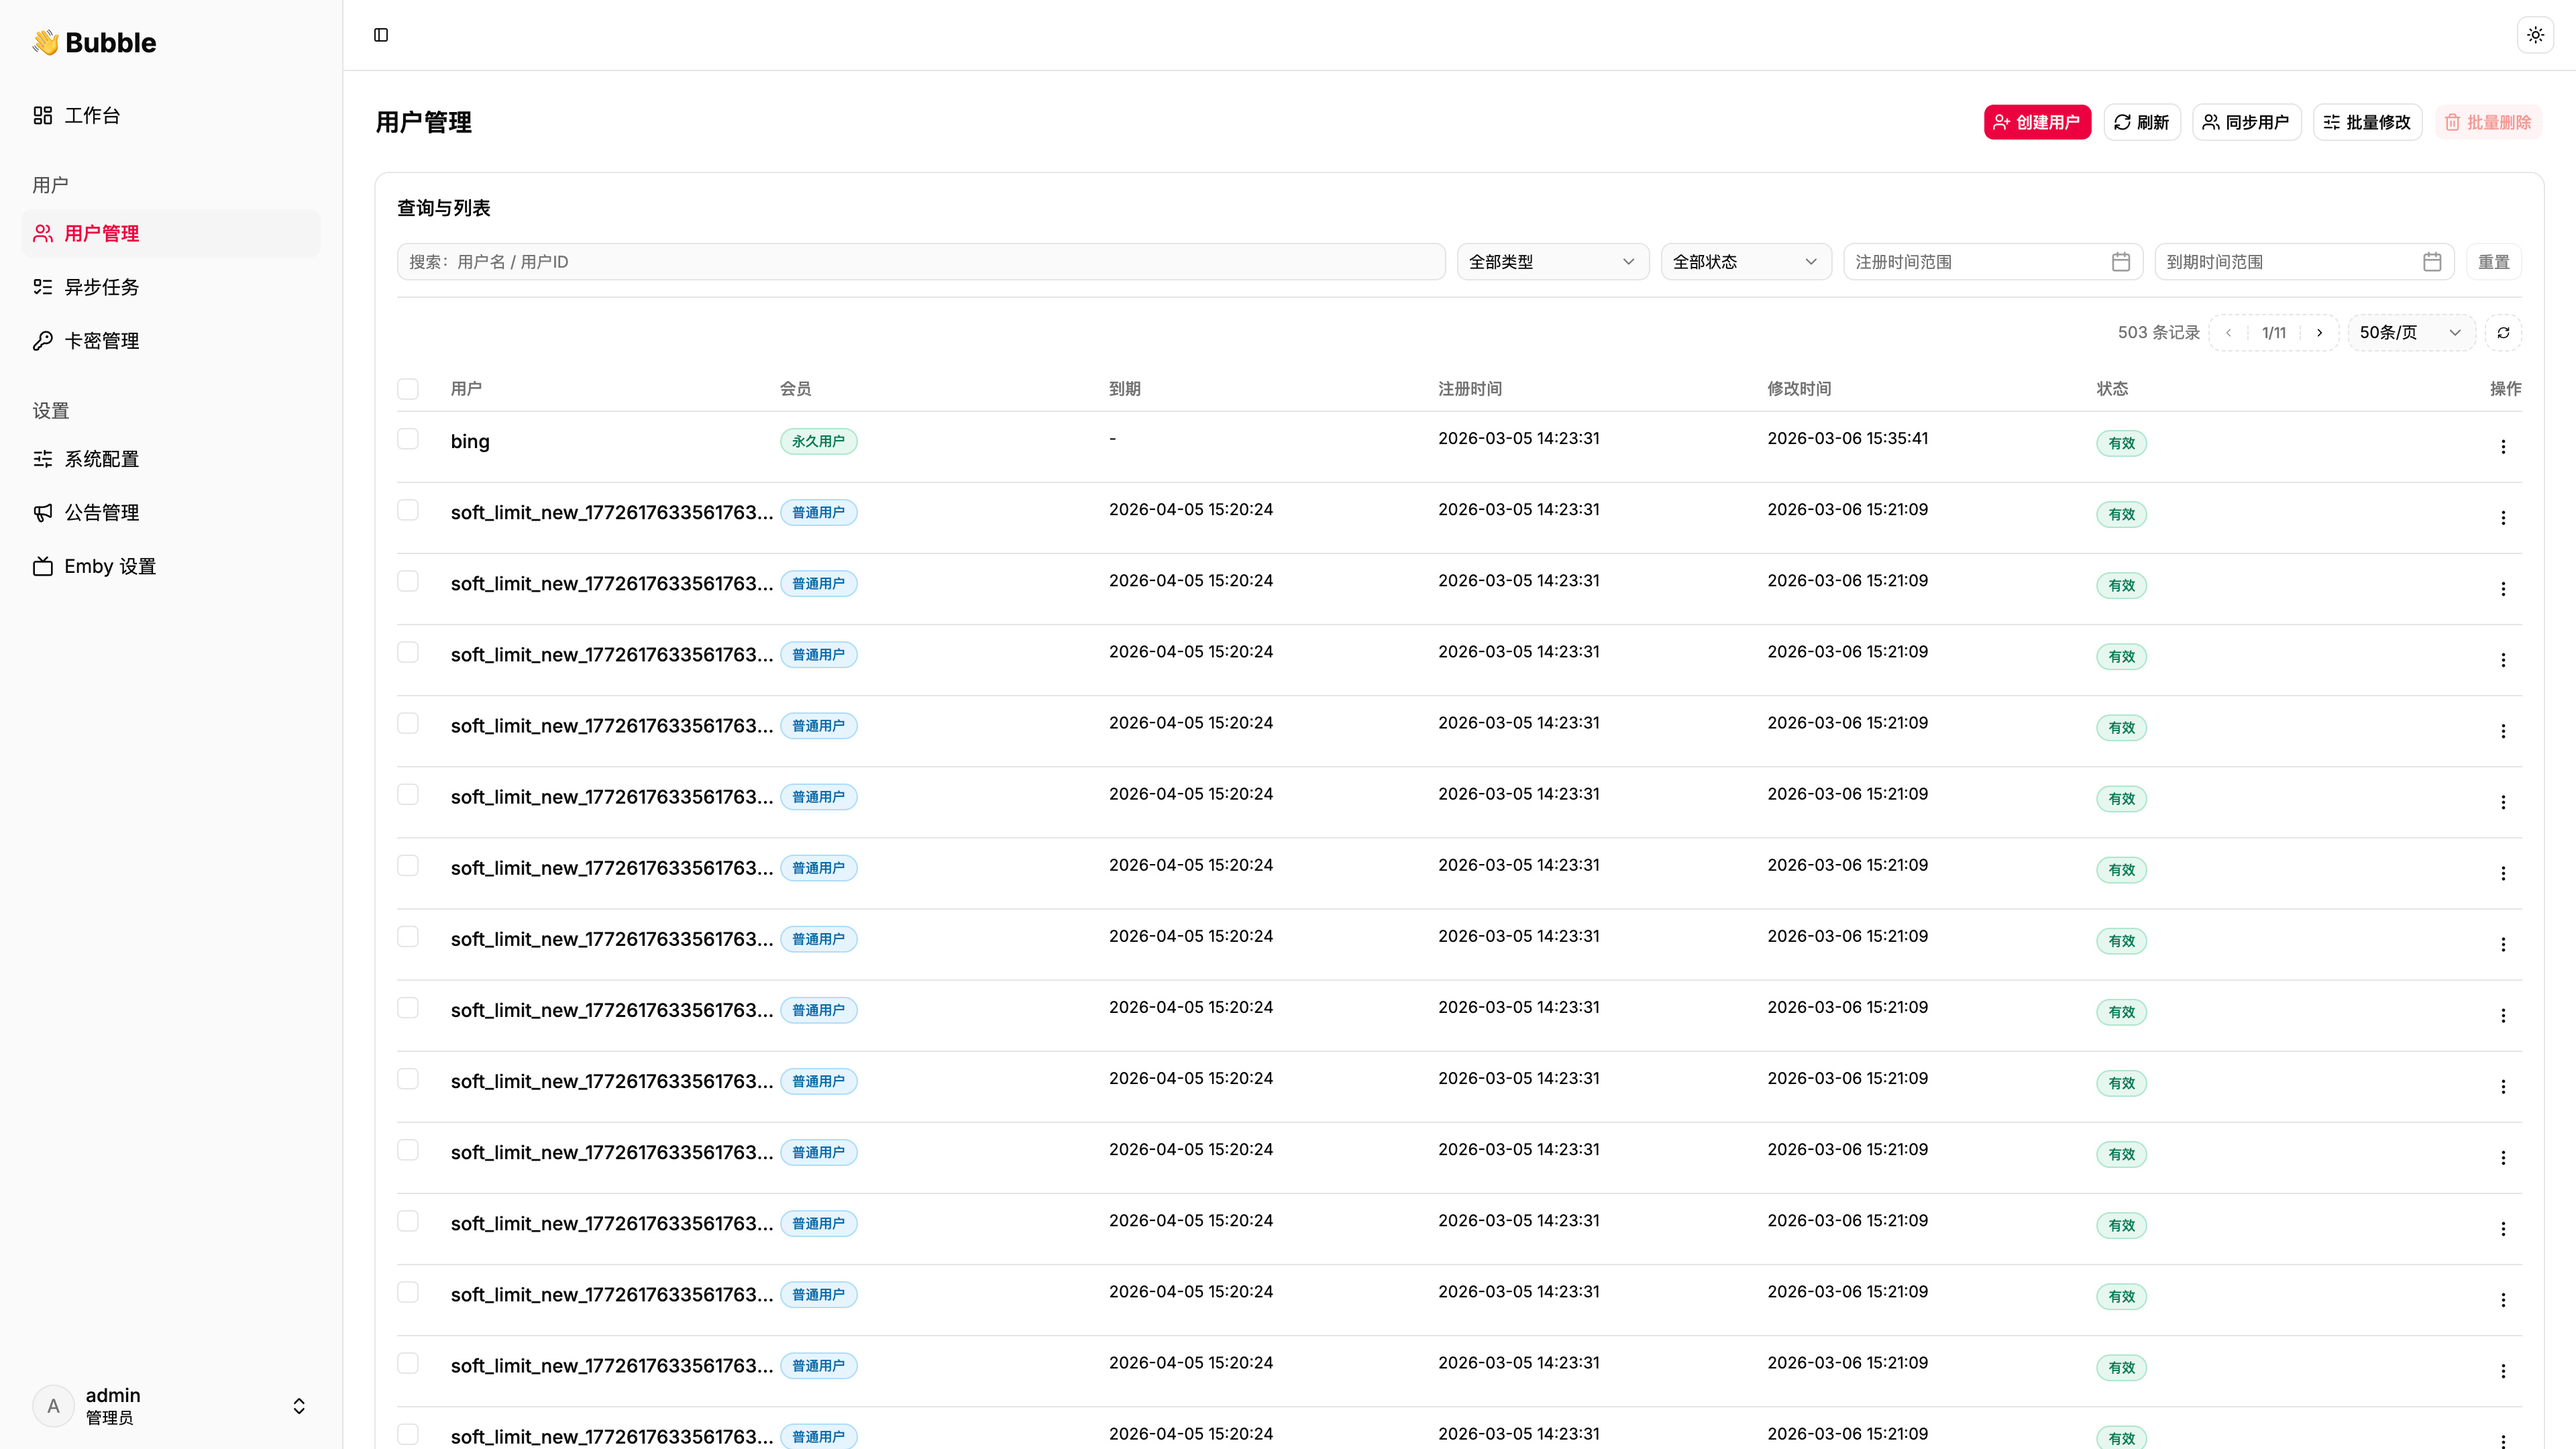
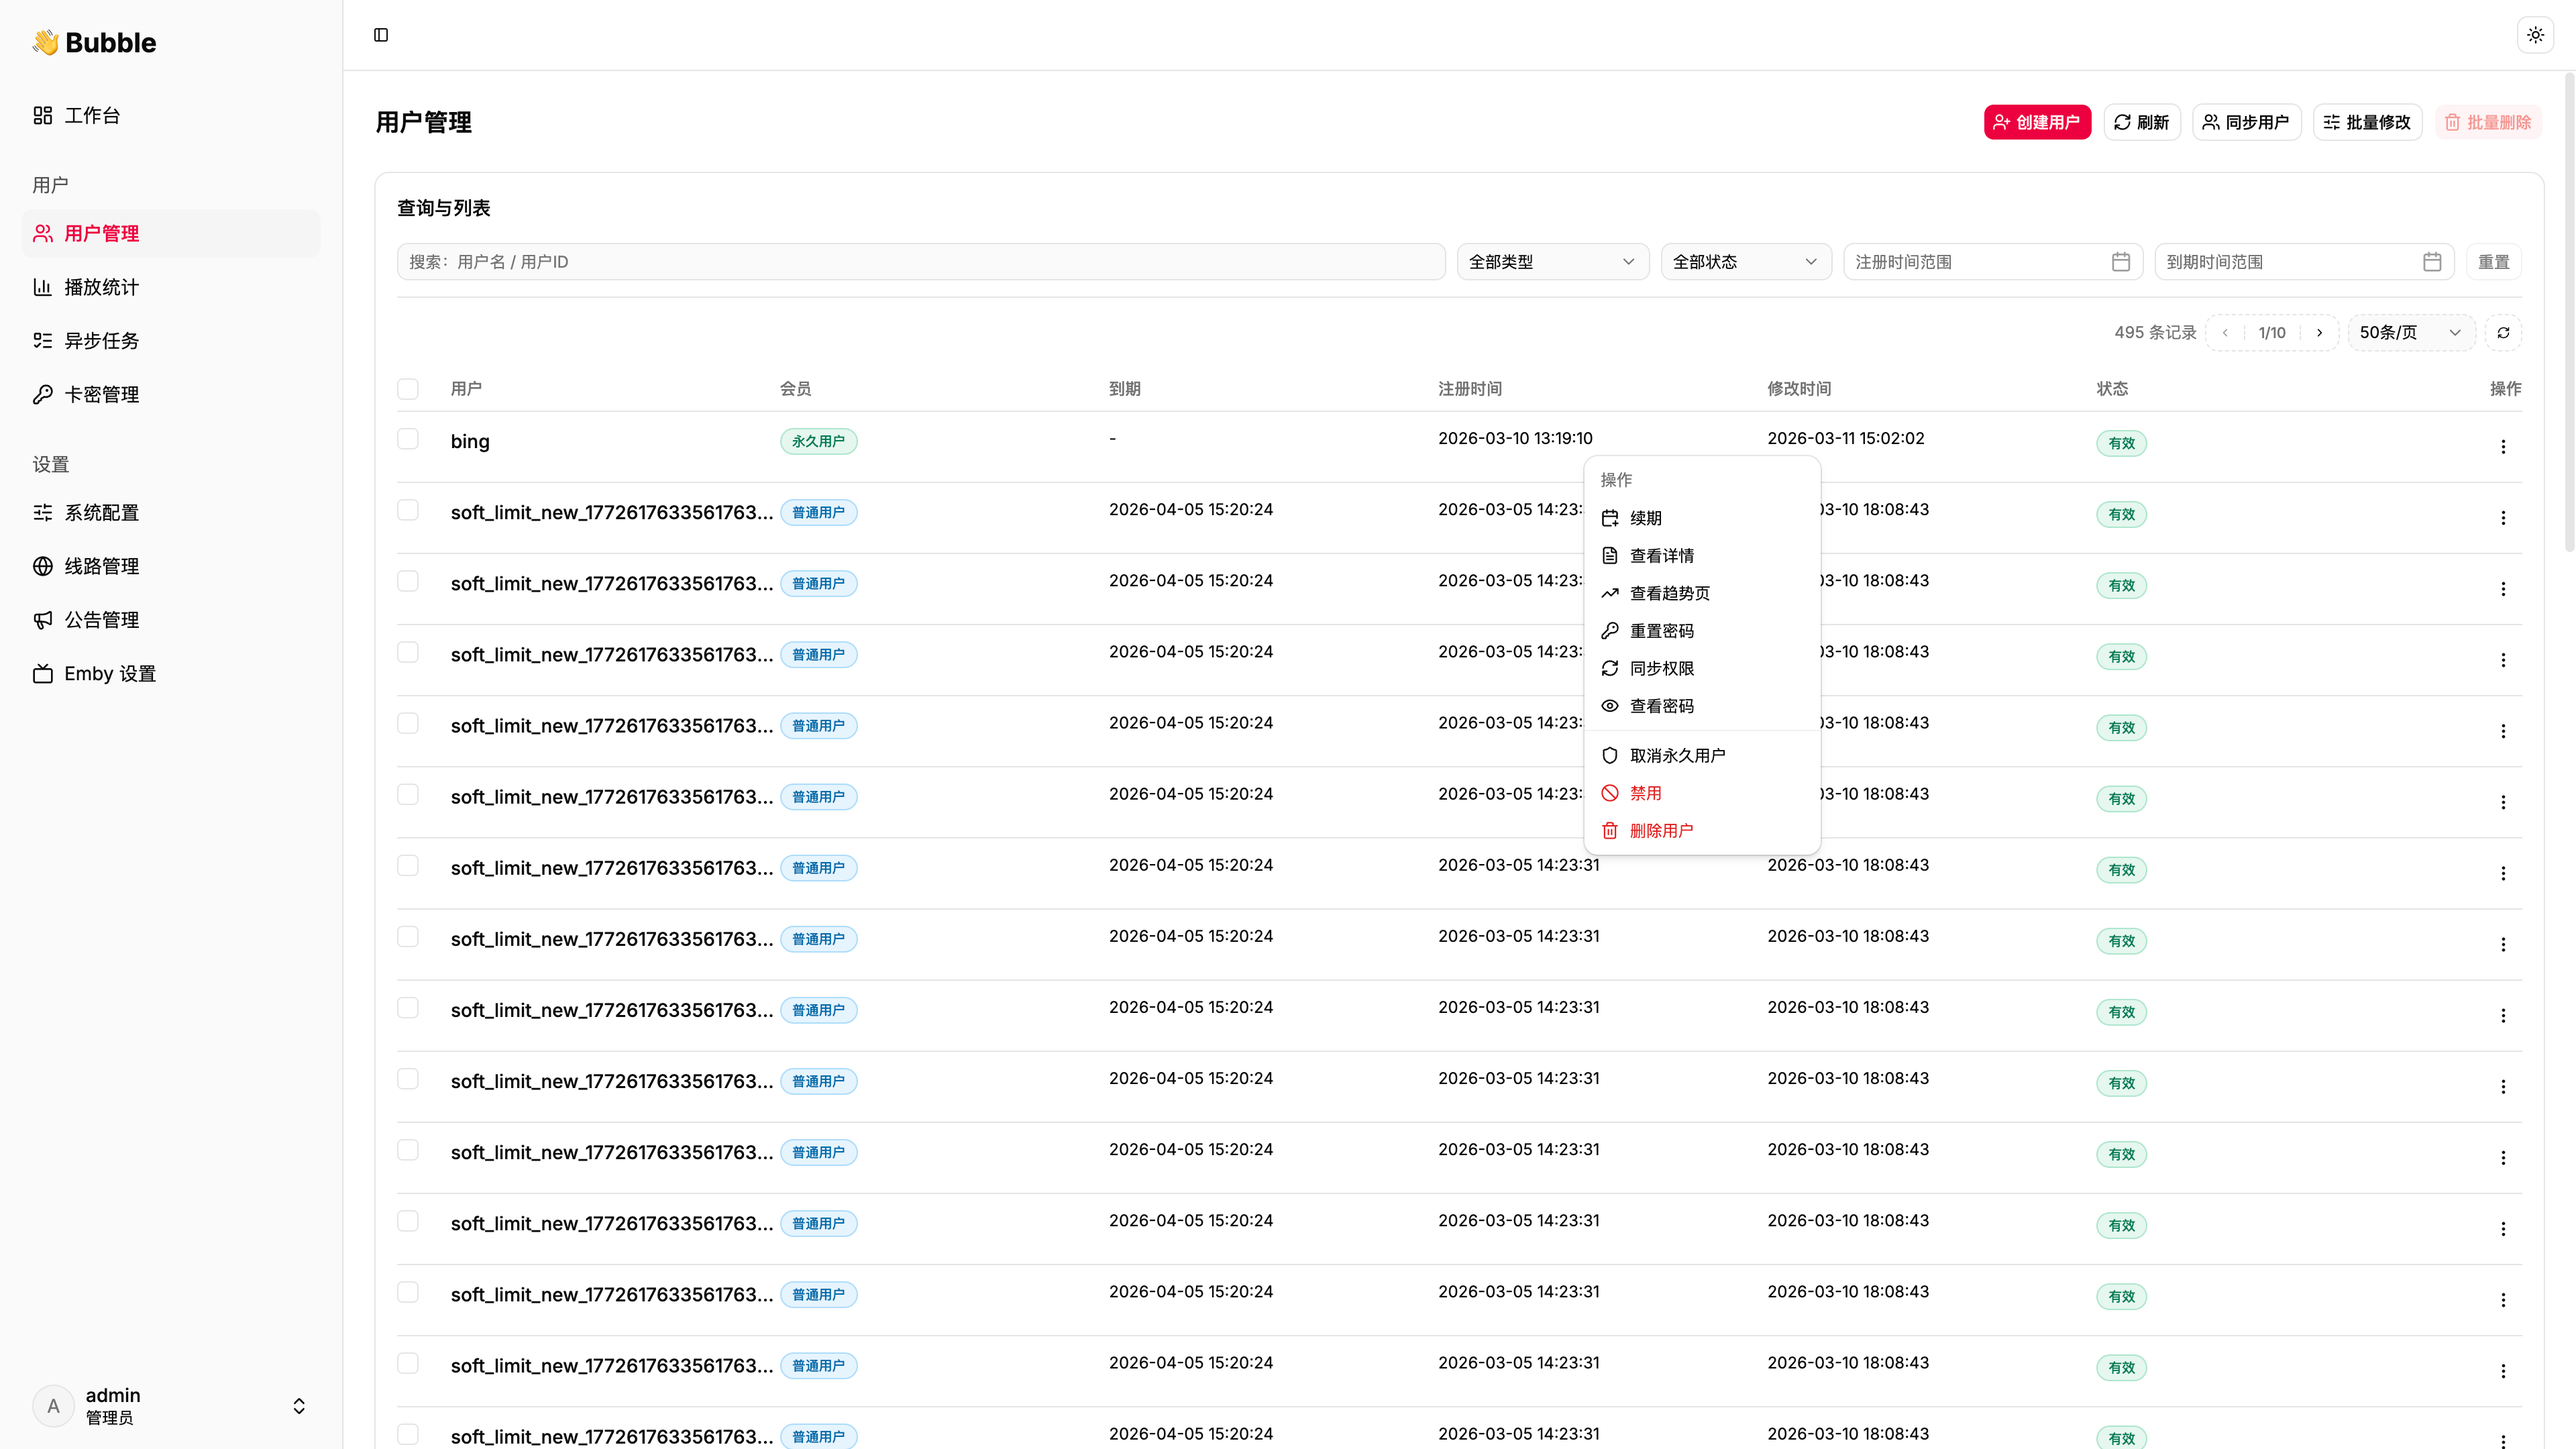
Update documentation

diff --git a/README.md b/README.md
@@ -24,6 +24,13 @@
   - 批量禁用
   - 白名单启用与关闭
 
+- 🙋 用户中心
+  - 会员信息
+  - 上次活动
+  - 最近 30 天观看时长
+  - 设备 / IP
+  - 服务器线路
+
 - 🎫 卡密系统
   - 支持自定义天数卡密
   - 注册卡密
@@ -46,6 +53,13 @@
   - 登录提示配置
   - 注册规则配置
   - 兑换规则配置
+  - 版本更新检查
+
+- 🌐 线路管理
+  - 独立线路管理页面
+  - 线路显示控制
+  - 白名单线路控制
+  - 前台线路下发
 
 - 📺 播放统计
   - 用户详情播放统计
@@ -72,6 +86,17 @@
   - Emby 简易探针
   - Emby 设置页
   - 从本地恢复用户到 Emby
+  - 版本更新检查
+- [x] 用户中心
+  - 会员信息
+  - 上次活动
+  - 最近 30 天观看时长
+  - 设备 / IP
+  - 服务器线路
+- [x] 线路管理
+  - 独立线路管理页面
+  - 线路显示开关
+  - 白名单线路控制
 - [x] 播放统计
   - 用户播放时长汇总
   - 用户播放记录

diff --git a/CHANGELOG.md b/CHANGELOG.md
@@ -1,5 +1,19 @@
 # 更新日志
 
+## [0.2.3] - 2026-03-11
+
+### Added
+
+- 版本更新检查
+- 线路管理页，支持增删改查和排序
+- 线路支持显示开关和白名单可见
+- 用户页增加服务器线路卡片，支持复制线路
+- 用户页增加上次活动、最近 30 天观看时长、设备和 IP 信息
+
+### Fixed
+
+- 修复 Bugs
+
 ## [0.2.0] - 2026-03-11
 
 ### Added
